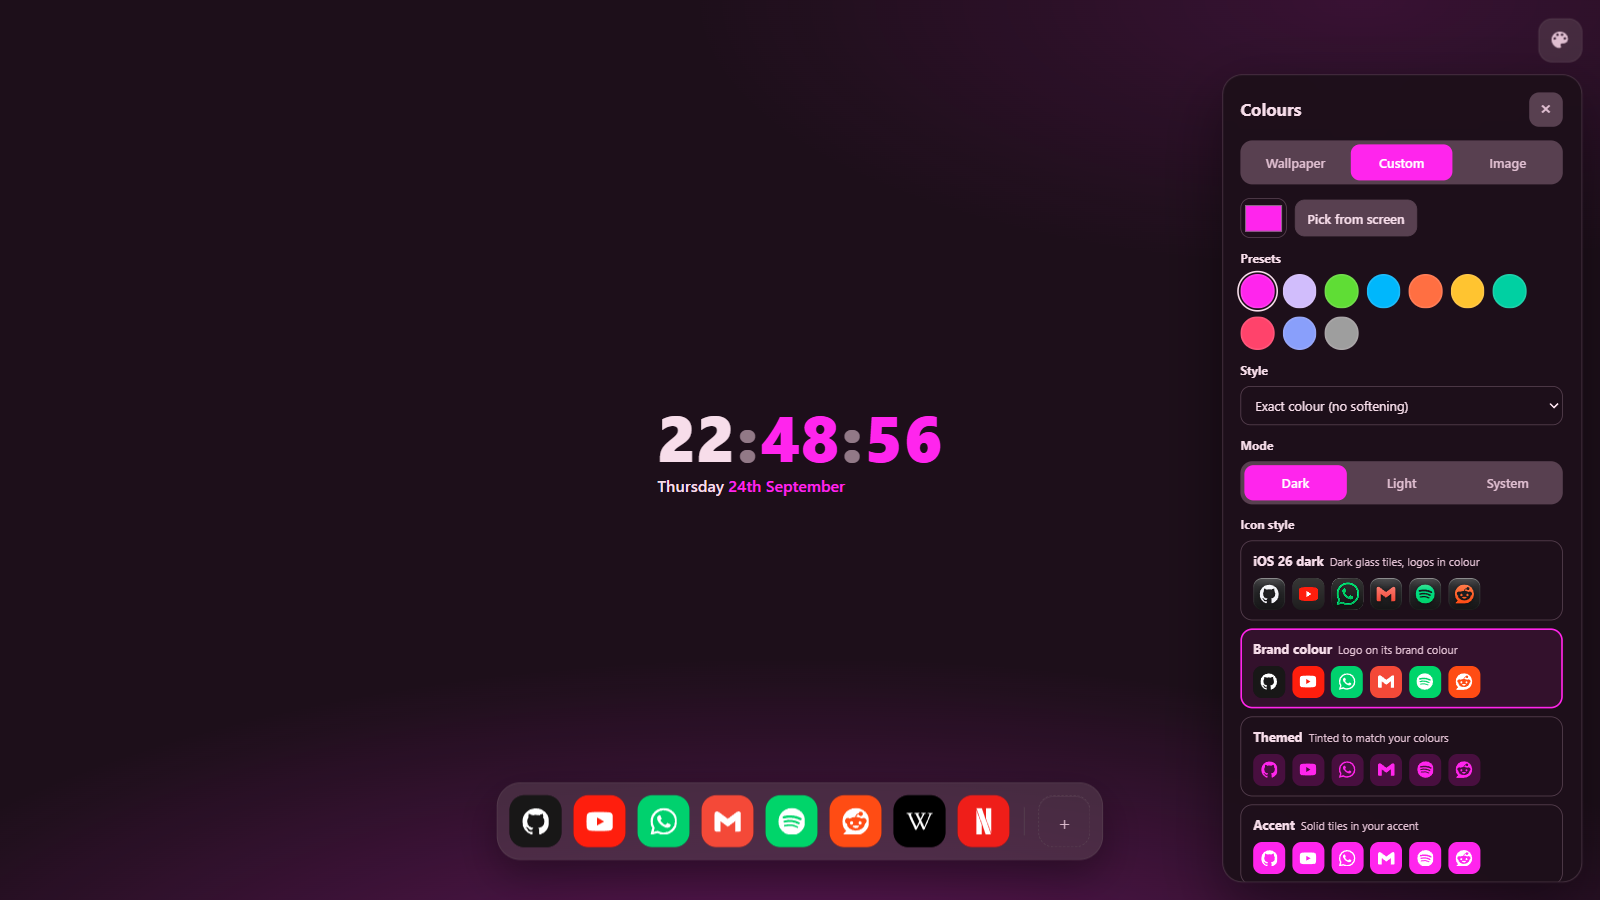
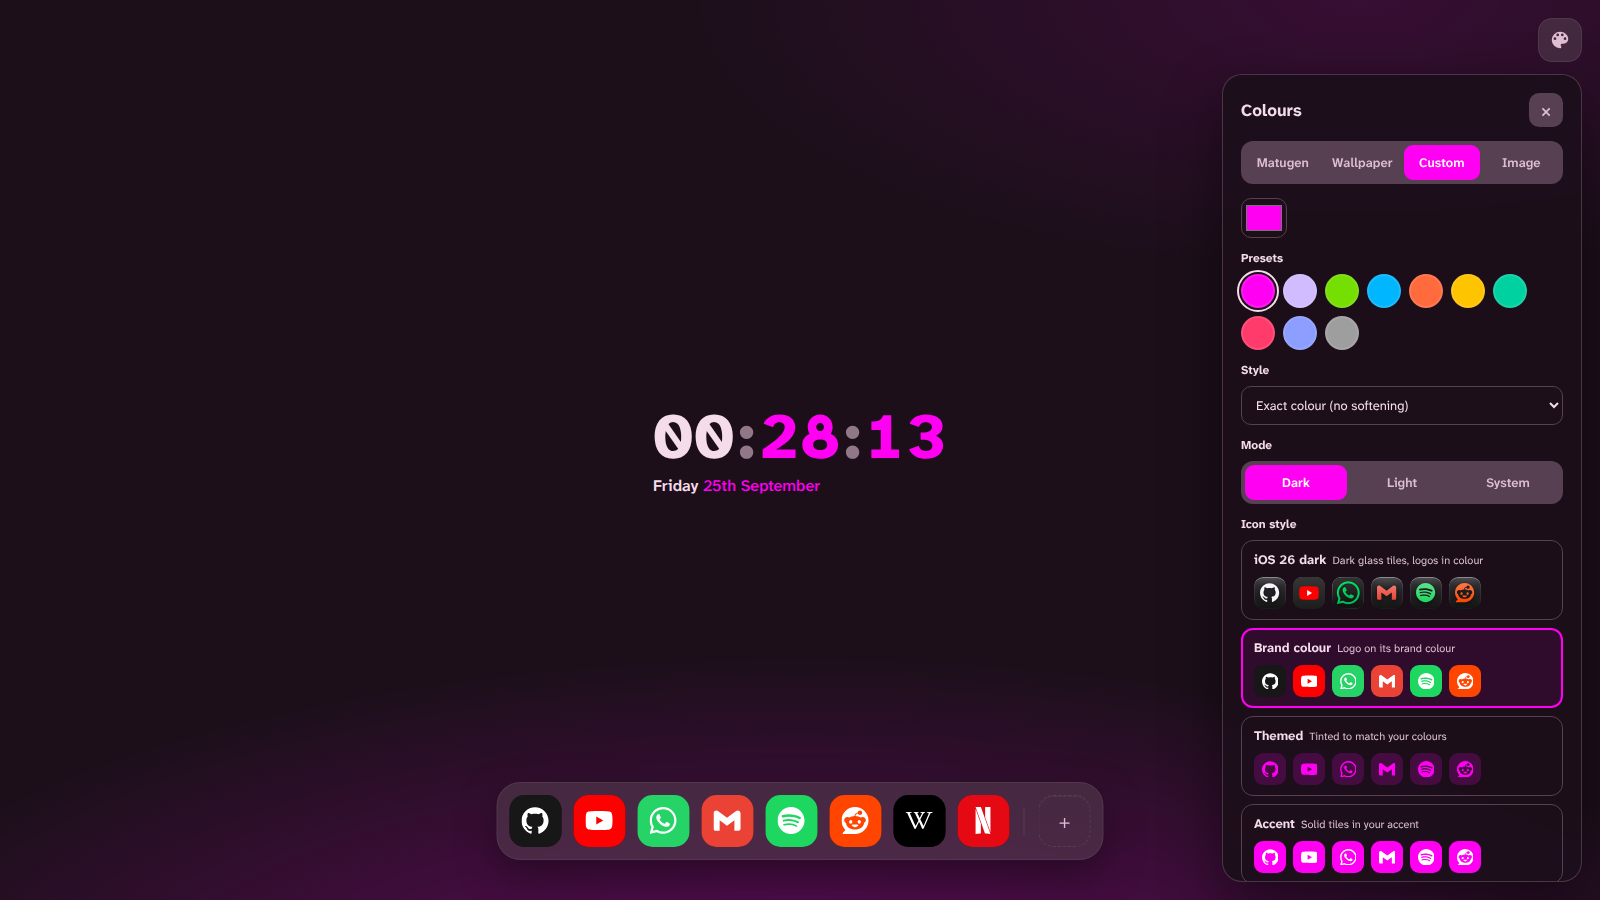
Re-shoot every screenshot from the Linux build
The README reused the Windows screenshots, whose panel says "Following
your Windows wallpaper" and has no Matugen tab. All ten are now taken
from this extension in headless Helium, with the NASA wallpapers fed
through the real Linux helper and real matugen output.

diff --git a/README.md b/README.md
@@ -7,7 +7,7 @@ A minimal, curated New Tab page that **takes its colours from your wallpaper, or
 Chromium browser on Linux: Helium, Chrome, Chromium, Brave, Vivaldi, Edge and others. It's the Linux version of
 [Quiet Tab for Windows](https://github.com/SammyNashed/quiet-tab-windows).
 
-<img src="screenshots/hero.png" alt="Quiet Tab following an orange nebula wallpaper">
+<img src="screenshots/hero.png" alt="Quiet Tab using the colours matugen made from the Carina Nebula">
 
 - **Matches your desktop exactly.** With matugen, the page uses the very colours matugen generated for your bar,
   terminal and everything else — same scheme, same style. Change the wallpaper and every open New Tab recolours
@@ -32,11 +32,11 @@ Chromium browser on Linux: Helium, Chrome, Chromium, Brave, Vivaldi, Edge and ot
 | | |
 |---|---|
 | <img src="screenshots/orange-tonal-spot.png" alt="Orange nebula, Tonal spot"> | <img src="screenshots/blue-fidelity.png" alt="Blue nebula, Fidelity"> |
-| Carina Nebula · *Tonal spot* · iOS 26 dark icons | Pillars of Creation · *Fidelity* · Themed icons |
+| Carina Nebula · *Tonal spot* · iOS 26 dark icons | Pillars of Creation, blue swatch picked · *Fidelity* · Themed icons |
 | <img src="screenshots/green-vibrant-light.png" alt="Green aurora, Vibrant, light mode"> | <img src="screenshots/red-content.png" alt="Red aurora, Content"> |
-| Aurora from orbit, second swatch picked · *Vibrant*, light · Logo only | Red aurora · *Content* · Accent icons |
+| Aurora from orbit, second swatch picked · *Vibrant*, light · Logo only | Aurora over Kennedy Space Center · *Content* · Accent icons |
 | <img src="screenshots/image-expressive.png" alt="Uploaded picture, Expressive"> | <img src="screenshots/custom-exact.png" alt="Custom colour, Exact"> |
-| An uploaded picture (Crab Nebula) · *Expressive* · Monochrome icons | Custom colour · *Exact colour* · Brand colour icons |
+| An uploaded picture (Crab Nebula) · *Expressive* · Monochrome icons | Custom colour (#ff00f2) · *Exact colour* · Brand colour icons |
 
 ## Shortcut icons
 
@@ -99,7 +99,9 @@ The extension's ID comes from the folder's path. If you move the folder, load it
 
 - Colour science: Google's [material-color-utilities](https://github.com/material-foundation/material-color-utilities)
   (Apache 2.0), bundled as `vendor/mcu.js`.
-- Screenshot wallpapers: public-domain images from the [NASA Image and Video Library](https://images.nasa.gov).
+- Screenshot wallpapers: public-domain images from the [NASA Image and Video Library](https://images.nasa.gov)
+  (`carina_nebula`, `GSFC_20171208_Archive_e000842`, `iss023e058455`, `KSC-20251111-PH-JBS01_0011`, `PIA03606`).
+  Every screenshot is taken from this Linux build, with the wallpaper fed through the real helper and matugen.
 - Shortcut icons: [Simple Icons](https://github.com/simple-icons/simple-icons) (CC0), bundled as
   `icons/library.json`. The logos are trademarks of their owners and are shown only to identify each site.
 - The hand-made iOS-style WhatsApp and YouTube icons in `icons/apps/` come from third-party icon packs.
